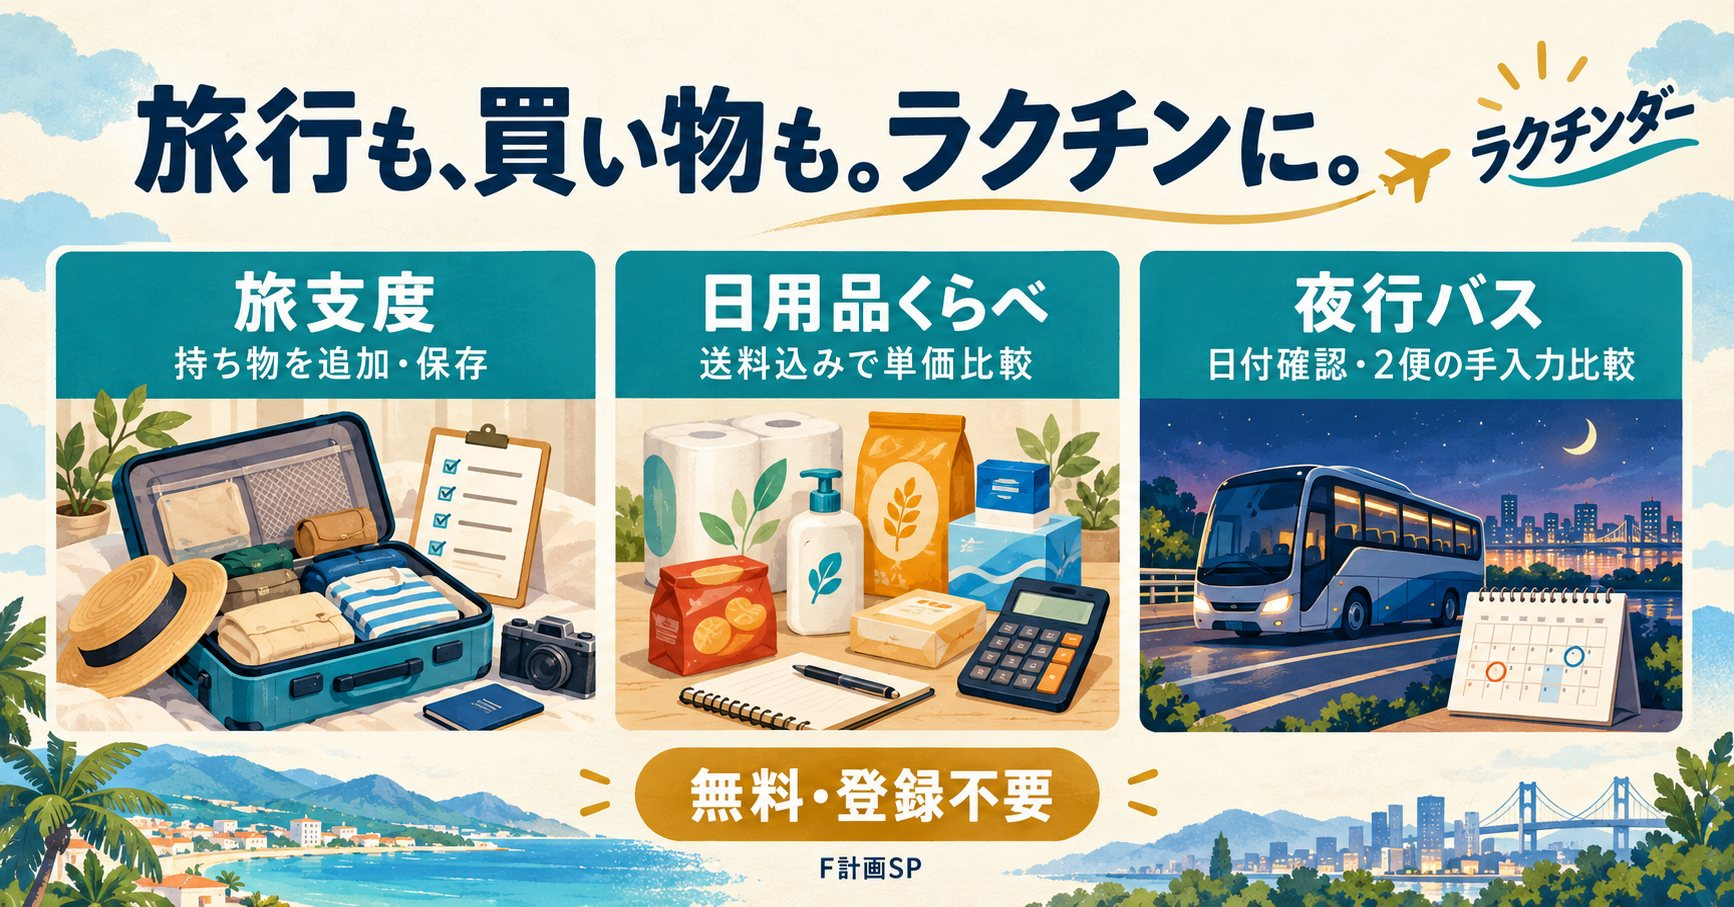
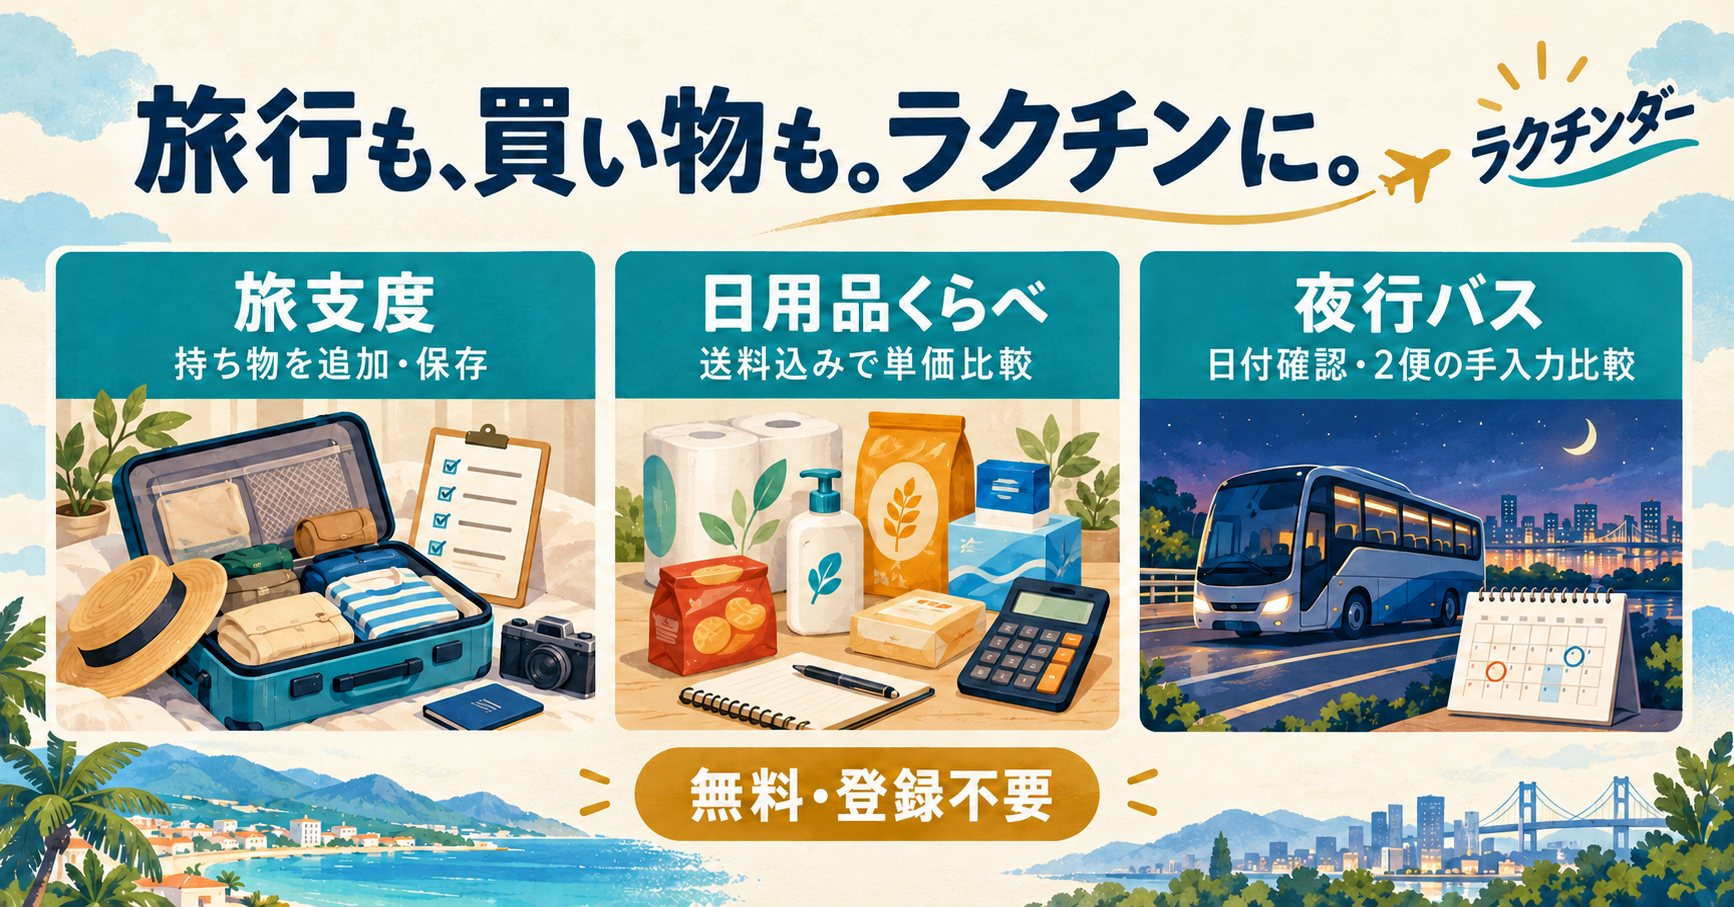
Use public brand only in pages and sharing assets

diff --git a/public/index.html b/public/index.html
@@ -4,9 +4,9 @@
 <style>*{box-sizing:border-box}html{scroll-behavior:smooth}body{margin:0;background:#f5f3ec;color:#182e3e;font:16px/1.75 system-ui,-apple-system,sans-serif;padding:env(safe-area-inset-top) max(16px,env(safe-area-inset-right)) env(safe-area-inset-bottom) max(16px,env(safe-area-inset-left))}header,main,footer{max-width:980px;margin:auto}header{padding:24px 0;display:flex;flex-wrap:wrap;justify-content:space-between;gap:12px}a{color:#08695f}a:focus-visible,button:focus-visible,input:focus-visible,select:focus-visible,summary:focus-visible{outline:3px solid #b88732;outline-offset:3px}nav,.actions{display:flex;flex-wrap:wrap;gap:12px}.hero{padding:26px 0}h1{font-size:clamp(28px,5vw,44px);line-height:1.3}h2{font-size:23px}h3{font-size:19px}.eyebrow{color:#08695f;font-size:12px;letter-spacing:.14em;font-weight:800}.panel,.card{background:white;border:1px solid #dce3de;border-radius:20px;padding:22px;margin:18px 0}.grid{display:grid;gap:18px}.two{grid-template-columns:1fr 1fr}.grid>.card{margin:0;min-width:0}label{display:block;font-weight:650;margin:12px 0 5px}input,select,textarea{width:100%;font:inherit;min-height:48px;border:1px solid #a6b7b7;border-radius:10px;padding:10px;background:white;color:#182e3e}input[type=checkbox]{width:22px;height:22px;min-height:22px;flex:none}.check{display:flex;align-items:flex-start;gap:12px;padding:10px 0}.check small{display:block;font-weight:400;color:#556675}button,.btn{font:inherit;border:0;border-radius:12px;background:#08695f;color:white;min-height:48px;padding:12px 18px;cursor:pointer;text-decoration:none;display:inline-block}button:disabled{opacity:.45;cursor:default}.secondary{background:#e6eee9;color:#182e3e}.actions{margin:16px 0}small,.fine{font-size:14px;color:#556675}.result{background:#edf6f2;padding:20px;border-radius:14px;margin:18px 0;white-space:pre-line;overflow-wrap:anywhere}.error{color:#a32124}.price{font-size:28px;font-weight:800;color:#08695f}.bar{height:12px;background:#47958b;border-radius:20px}.progress{height:12px;background:#dce9e2;border-radius:12px;overflow:hidden}.progress span{display:block;height:100%;background:#08695f}textarea{min-height:130px}summary{cursor:pointer;font-weight:750;padding:8px}footer{padding:30px 0}fieldset{min-width:0}legend{font-weight:800}section{scroll-margin-top:20px}[hidden]{display:none!important}@media(max-width:650px){.two{grid-template-columns:1fr}.panel,.card{padding:18px}header nav{font-size:14px}.actions button{flex:1 1 140px}}
 .skip{position:absolute;left:16px;top:-100px;background:white;padding:12px;z-index:10}.skip:focus{top:8px}textarea:focus-visible{outline:3px solid #b88732;outline-offset:3px}.hero{background:linear-gradient(120deg,#e3f1e9,#f5edda);border:1px solid #d5e4dc;border-radius:24px;padding:24px;margin-bottom:24px}.hero h1{margin-top:8px}.panel{box-shadow:0 6px 22px #182e3e08}#tool{border-top:5px solid #08695f}nav a{display:inline-flex;align-items:center;min-height:44px} @media(prefers-reduced-motion:reduce){html{scroll-behavior:auto}}
 .saved-panel{background:#f0f5f1;border:1px solid #d5e1d8;border-radius:16px;padding:18px;margin:20px 0}.custom-entry{display:flex;gap:10px;align-items:center}.custom-entry input{flex:1;min-width:0}.custom-entry button{flex:none}.packing-row{display:flex;align-items:center;gap:12px;border-bottom:1px solid #e3e9e3}.packing-row .check{flex:1;min-width:0;overflow-wrap:anywhere}.remove-item{font-size:14px;padding:8px 12px}@media(max-width:420px){.custom-entry{align-items:stretch;flex-direction:column}}
-</style><link rel="canonical" href="https://tabishitaku-rakuchinder.pages.dev/"><meta property="og:type" content="website"><meta property="og:locale" content="ja_JP"><meta property="og:title" content="旅行の持ち物チェックリスト｜旅支度ラクチンダー"><meta property="og:description" content="泊数・移動手段から旅行の持ち物リストを作成。自分の持ち物の追加、準備チェック、端末保存・呼び出し・コピーに対応。無料・登録不要。"><meta property="og:url" content="https://tabishitaku-rakuchinder.pages.dev/"><meta property="og:image" content="https://tabishitaku-rakuchinder.pages.dev/og-card.jpg"><meta property="og:image:alt" content="ラクチンダー 無料の旅行・買い物便利ツール"><meta name="twitter:card" content="summary_large_image"><meta name="twitter:title" content="旅行の持ち物チェックリスト｜旅支度ラクチンダー"><meta name="twitter:description" content="泊数・移動手段から旅行の持ち物リストを作成。自分の持ち物の追加、準備チェック、端末保存・呼び出し・コピーに対応。無料・登録不要。"><meta name="twitter:image" content="https://tabishitaku-rakuchinder.pages.dev/og-card.jpg"><meta name="google-site-verification" content="EuNEpBZmHEmdZQ6MrhX1X6HME4LkcC5O2_vVCpQmz54"></head>
+</style><link rel="canonical" href="https://tabishitaku-rakuchinder.pages.dev/"><meta property="og:type" content="website"><meta property="og:locale" content="ja_JP"><meta property="og:title" content="旅行の持ち物チェックリスト｜旅支度ラクチンダー"><meta property="og:description" content="泊数・移動手段から旅行の持ち物リストを作成。自分の持ち物の追加、準備チェック、端末保存・呼び出し・コピーに対応。無料・登録不要。"><meta property="og:url" content="https://tabishitaku-rakuchinder.pages.dev/"><meta property="og:image" content="https://tabishitaku-rakuchinder.pages.dev/og-card-v2.jpg"><meta property="og:image:alt" content="ラクチンダー 無料の旅行・買い物便利ツール"><meta name="twitter:card" content="summary_large_image"><meta name="twitter:title" content="旅行の持ち物チェックリスト｜旅支度ラクチンダー"><meta name="twitter:description" content="泊数・移動手段から旅行の持ち物リストを作成。自分の持ち物の追加、準備チェック、端末保存・呼び出し・コピーに対応。無料・登録不要。"><meta name="twitter:image" content="https://tabishitaku-rakuchinder.pages.dev/og-card-v2.jpg"><meta name="google-site-verification" content="EuNEpBZmHEmdZQ6MrhX1X6HME4LkcC5O2_vVCpQmz54"></head>
 <body><a class="skip" href="#tool">ツールの入力へ移動</a><header><b>旅支度ラクチンダー</b><nav><a href="#tool">使う</a><a href="#guide">使い方</a><a href="#about">運営情報</a></nav></header>
-<main id="main"><section class="hero"><p class="eyebrow">RAKUCHINDER · F PLAN SP</p><h1>旅支度ラクチンダー</h1><p>泊数と移動手段から持ち物を整理。チェック・保存・コピーで、出発前の準備をラクに。</p><p class="fine">無料・登録不要。スマートフォンから利用できます。</p><p class="fine">広告：当サイトは楽天アフィリエイトを利用しています。紹介リンクからの予約・購入など所定の条件を満たすと、運営者に報酬が入る場合があります。</p></section>
+<main id="main"><section class="hero"><p class="eyebrow">RAKUCHINDER</p><h1>旅支度ラクチンダー</h1><p>泊数と移動手段から持ち物を整理。チェック・保存・コピーで、出発前の準備をラクに。</p><p class="fine">無料・登録不要。スマートフォンから利用できます。</p><p class="fine">広告：当サイトは楽天アフィリエイトを利用しています。紹介リンクからの予約・購入など所定の条件を満たすと、運営者に報酬が入る場合があります。</p></section>
 <section class="panel" id="tool"><h2>今回の旅の持ち物を作る</h2>
 <form id="packing-form"><div class="grid two"><div><label for="nights">泊数（0〜30泊）</label><input id="nights" name="nights" type="number" min="0" max="30" step="1" value="1" required></div><div><label for="mode">移動手段</label><select id="mode" name="mode"><option value="train">鉄道</option><option value="bus">夜行バス</option><option value="plane">飛行機</option><option value="car">車</option></select></div></div>
 <label class="check"><input id="rain" type="checkbox">雨の日にも備える</label><label class="check"><input id="work" type="checkbox">仕事・作業をする</label><button>持ち物リストを作る</button></form>
@@ -14,10 +14,10 @@
 <div class="actions"><button id="save" type="button">チェック状態を保存</button><button id="load" type="button" class="secondary">保存を呼び出す</button><button id="erase" type="button" class="secondary">保存を削除</button><button id="copy" type="button" class="secondary">リストをコピー</button></div><p id="save-status" role="status"></p><textarea id="fallback" readonly hidden aria-label="コピー用の持ち物メモ"></textarea></section>
 <section class="panel"><h2>足りないものだけ、探す</h2><p>まずは手持ちのもので準備。必要なものだけ仕様を確かめて選びましょう。</p><nav><a href="https://hb.afl.rakuten.co.jp/hgc/134109f3.08953bf1.134109f4.38f525d0/?pc=https%3A%2F%2Fsearch.rakuten.co.jp%2Fsearch%2Fmall%2F%E6%97%85%E8%A1%8C%2B%E3%83%9D%E3%83%BC%E3%83%81%2F&amp;link_type=hybrid_url&amp;ut=eyJwYWdlIjoidXJsIiwidHlwZSI6Imh5YnJpZF91cmwiLCJjb2wiOjF9" target="_blank" rel="sponsored noopener noreferrer">旅行用ポーチを探す</a><a href="https://hb.afl.rakuten.co.jp/hgc/134109f3.08953bf1.134109f4.38f525d0/?pc=https%3A%2F%2Fsearch.rakuten.co.jp%2Fsearch%2Fmall%2F%E3%83%8D%E3%83%83%E3%82%AF%E3%83%94%E3%83%AD%E3%83%BC%2F&amp;link_type=hybrid_url&amp;ut=eyJwYWdlIjoidXJsIiwidHlwZSI6Imh5YnJpZF91cmwiLCJjb2wiOjF9" target="_blank" rel="sponsored noopener noreferrer">ネックピローを探す</a><a href="https://hb.afl.rakuten.co.jp/hgc/134109f3.08953bf1.134109f4.38f525d0/?pc=https%3A%2F%2Fsearch.rakuten.co.jp%2Fsearch%2Fmall%2F%E6%8A%98%E3%82%8A%E3%81%9F%E3%81%9F%E3%81%BF%E5%82%98%2F&amp;link_type=hybrid_url&amp;ut=eyJwYWdlIjoidXJsIiwidHlwZSI6Imh5YnJpZF91cmwiLCJjb2wiOjF9" target="_blank" rel="sponsored noopener noreferrer">折りたたみ傘を探す</a></nav><p class="fine">広告：楽天アフィリエイトの紹介リンクです。価格・在庫・寸法は販売ページで確認してください。</p></section>
 <section class="panel" id="guide"><h2>使い方・確認のポイント</h2><h3>泊数と移動手段から始める</h3><p>日帰りは0泊を選びます。リストは出発点です。着替えの数は洗濯できるか、宿の備品を使えるかでも変わります。家族・同行者やご自身の必需品を追加で確認してください。</p><h3>夜行バスでは手元の荷物を分ける</h3><p>荷物を預ける前に、車内で必要な予約情報・スマートフォン・常備品などを小さなバッグへ。車内で使える機器・飲食・荷物の条件は運行会社ごとに確認します。</p><h3>飛行機の荷物は公式案内で確認</h3><p>このツールは機内持ち込みの許可判定をしません。電池・充電器・液体・刃物・手荷物寸法は航空会社と空港の最新案内で確認してください。</p><h3>保存して次回に使う</h3><p>作成後にチェックし、「保存」を押すと条件・追加した持ち物・チェック状態を1件保存します。追加した項目は、その項目の「削除」で取り除けます。次回は「保存を呼び出す」を押してください。入力変更後はリストを作り直します。</p></section>
-<section class="panel" id="about"><h2>運営情報</h2><p>運営：モーリー／F計画SP。生活や旅行の準備に役立つ無料ツールを制作しています。楽天などのサービスが運営する公式サイトではありません。</p><p>お問い合わせ・不具合報告：<a href="https://github.com/MORRY1992/tabishitaku-rakuchinder/issues" target="_blank" rel="noopener noreferrer">公開の問い合わせ窓口（GitHub）</a>。投稿は公開されます。氏名・予約番号などの個人情報は書き込まないでください。投稿にはGitHubアカウントが必要です。</p></section>
+<section class="panel" id="about"><h2>運営情報</h2><p>運営：モーリー。生活や旅行の準備に役立つ無料ツールを制作しています。楽天などのサービスが運営する公式サイトではありません。</p><p>お問い合わせ・不具合報告：<a href="https://github.com/MORRY1992/tabishitaku-rakuchinder/issues" target="_blank" rel="noopener noreferrer">公開の問い合わせ窓口（GitHub）</a>。投稿は公開されます。氏名・予約番号などの個人情報は書き込まないでください。投稿にはGitHubアカウントが必要です。</p></section>
 <details class="panel" id="privacy"><summary>プライバシー・保存について</summary><p>計算やリスト作成はこのブラウザー内で行います。「保存」を押した場合のみ、このサイトの保存領域に入力内容等を記録します。共有端末では保存を削除してください。別の端末・ブラウザー・公開URLには保存を引き継ぎません。サイト独自のアクセス解析とGoogle AdSenseの広告配信は未導入です。楽天アフィリエイトの紹介リンクを掲載しています。AdSense所有権確認用メタタグのみ設置しています。</p><p>外部サイトを開くと、そのサイトの規約・プライバシーポリシーが適用されます。配信基盤では通信に必要な情報を取り扱う場合があります。</p></details>
 <details class="panel"><summary>利用上の注意・外部リンク</summary><p>結果は入力値に基づく参考情報です。料金・予約条件・商品仕様・運行や荷物の規則は各公式サイトで確認してください。予約・購入手続きを行う機能はありません。楽天への紹介リンクは広告です。予約・購入の成立条件などにより運営者に報酬が発生する場合があります。楽天以外の外部リンクには紹介料の計測を設定していません。クリックだけで報酬が発生する仕組みではありません。</p></details>
-<section class="panel"><h2>ほかの準備もラクチンに</h2><nav aria-label="関連ツール"><a href="https://rakuchin-stay.morry92.chatgpt.site/">楽ちんホテル</a><a href="https://book-rakuchinder.morry92.chatgpt.site/">本選び</a><a href="https://nightbus-finder.pages.dev/">夜行バス</a><a href="https://tabishitaku-rakuchinder.pages.dev/">旅支度</a><a href="https://unit-price-rakuchinder.pages.dev/">日用品比較</a></nav></section></main><footer><a href="#main">ページ上部へ</a> · F計画SP · 2026年10月26日版</footer>
+<section class="panel"><h2>ほかの準備もラクチンに</h2><nav aria-label="関連ツール"><a href="https://rakuchin-stay.morry92.chatgpt.site/">楽ちんホテル</a><a href="https://book-rakuchinder.morry92.chatgpt.site/">本選び</a><a href="https://nightbus-finder.pages.dev/">夜行バス</a><a href="https://tabishitaku-rakuchinder.pages.dev/">旅支度</a><a href="https://unit-price-rakuchinder.pages.dev/">日用品比較</a></nav></section></main><footer><a href="#main">ページ上部へ</a> · 2026年10月26日版</footer>
 <script>const $=id=>document.getElementById(id),form=$('packing-form');let list=[],values=null,customItems=[];
 function packing(v){if(!/^\d+$/.test(String(v.nights))||+v.nights>30)throw Error('泊数は0〜30泊の整数で入力してください。');if(!['train','bus','plane','car'].includes(v.mode))throw Error('移動手段を選択してください。');const a=[['ticket','乗車・予約情報','日付・集合場所・人数を確認'],['wallet','財布・必要な身分証','支払い方法も確認'],['phone','スマートフォンと充電用品','対応規格を確認'],['usual','普段必要なもの','眼鏡・必要な常備品など個別の必需品']];if(+v.nights>0)a.push(['clothes','着替え・下着',v.nights+'泊。洗濯や備品に合わせて調整'],['wash','洗面・入浴用品','宿泊先のアメニティを確認']);if(v.mode==='bus')a.push(['bus','車内用の小さなバッグ','預ける荷物と分ける'],['warm','温度調整の備え','羽織るものなどを準備']);if(v.mode==='plane')a.push(['plane','航空会社の手荷物条件','電池・液体・寸法などは最新の公式案内で確認']);if(v.mode==='car')a.push(['car','運転に必要なもの','免許証・車両・駐車場・休憩計画を確認']);if(v.rain)a.push(['rain','雨への備え','折りたたみ傘や防水用品']);if(v.work)a.push(['work','仕事・作業の備え','PC・必要な資料・ケーブル類']);return a;}
 function progress(){const count=$('packing-list').querySelectorAll('input:checked').length;$('progress-text').textContent=count+' / '+list.length+'項目を準備済み';$('progress-bar').style.width=(list.length?count/list.length*100:0)+'%';}

diff --git a/docs/GROWTH_20261026.md b/docs/GROWTH_20261026.md
@@ -11,13 +11,13 @@
 無料・登録不要です。
 https://tabishitaku-rakuchinder.pages.dev/
 
-運営：モーリー／F計画SP
+運営：モーリー
 リンク先には楽天アフィリエイトの広告を含みます。
 #旅行準備 #持ち物リスト #ラクチンダー
 
 ## 画像
 
-公開用 public/og-card.jpg。画像生成によるシリーズ案内図（実際のアプリ画面ではない）。原稿：旅行も、買い物も。ラクチンに。／旅支度：持ち物を追加・保存／日用品くらべ：送料込みで単価比較／夜行バス：日付確認・2便の手入力比較／無料・登録不要／F計画SP。
+公開用 public/og-card.jpg。画像生成によるシリーズ案内図（実際のアプリ画面ではない）。原稿：旅行も、買い物も。ラクチンに。／旅支度：持ち物を追加・保存／日用品くらべ：送料込みで単価比較／夜行バス：日付確認・2便の手入力比較／無料・登録不要。
 
 SNS投稿・予約投稿は実施していません。OG画像の表示や更新時期は各サービスのキャッシュにも左右されます。
 

diff --git a/AGENTS.md b/AGENTS.md
@@ -1,0 +1,7 @@
+# 公開表示と制作ルール
+
+- 公開ブランドは「ラクチンダー」。運営者は「モーリー」と表記する。
+- ユーザーの内部プロジェクト名・個人コードネーム・事業管理用の呼称を、ページ本文、ヘッダー、フッター、タイトル、メタデータ、共有画像、紹介文、アプリの表示へ掲載しない。
+- 開発状況、広告審査の予定、内部の収益目標などは、利用者の操作に必要な場合を除き公開画面へ入れない。
+- 広告・アフィリエイトの開示、運営者情報、プライバシー・利用条件など必要な案内は保持する。
+- HTML・共有画像・公開文書を変更するときは、内部呼称が再混入していないことを確認する。
